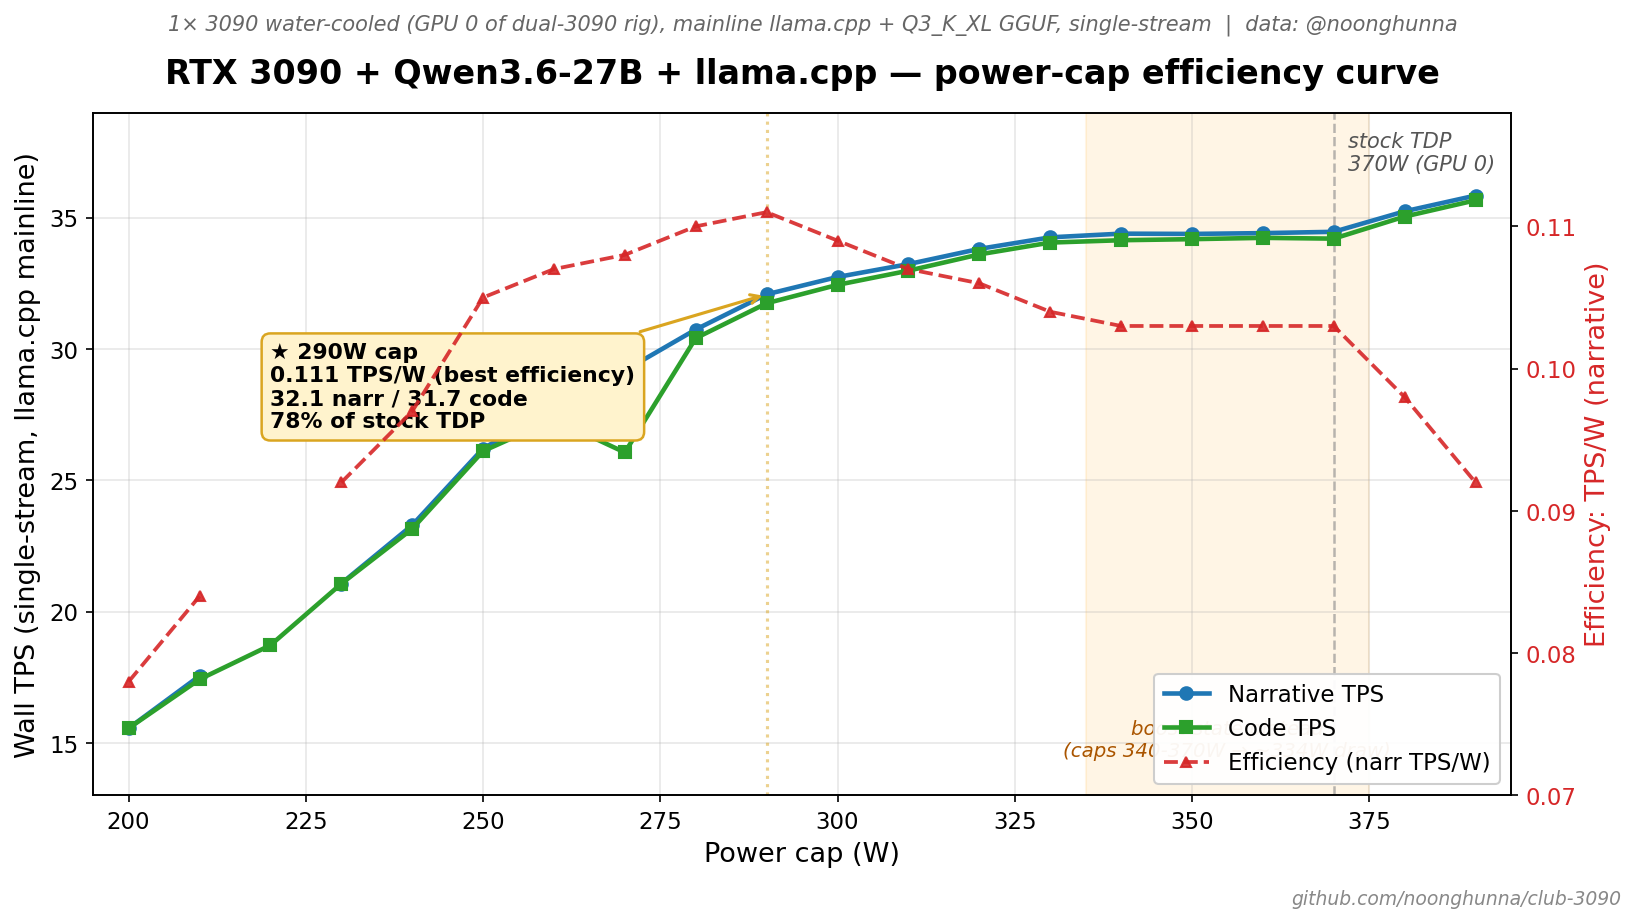
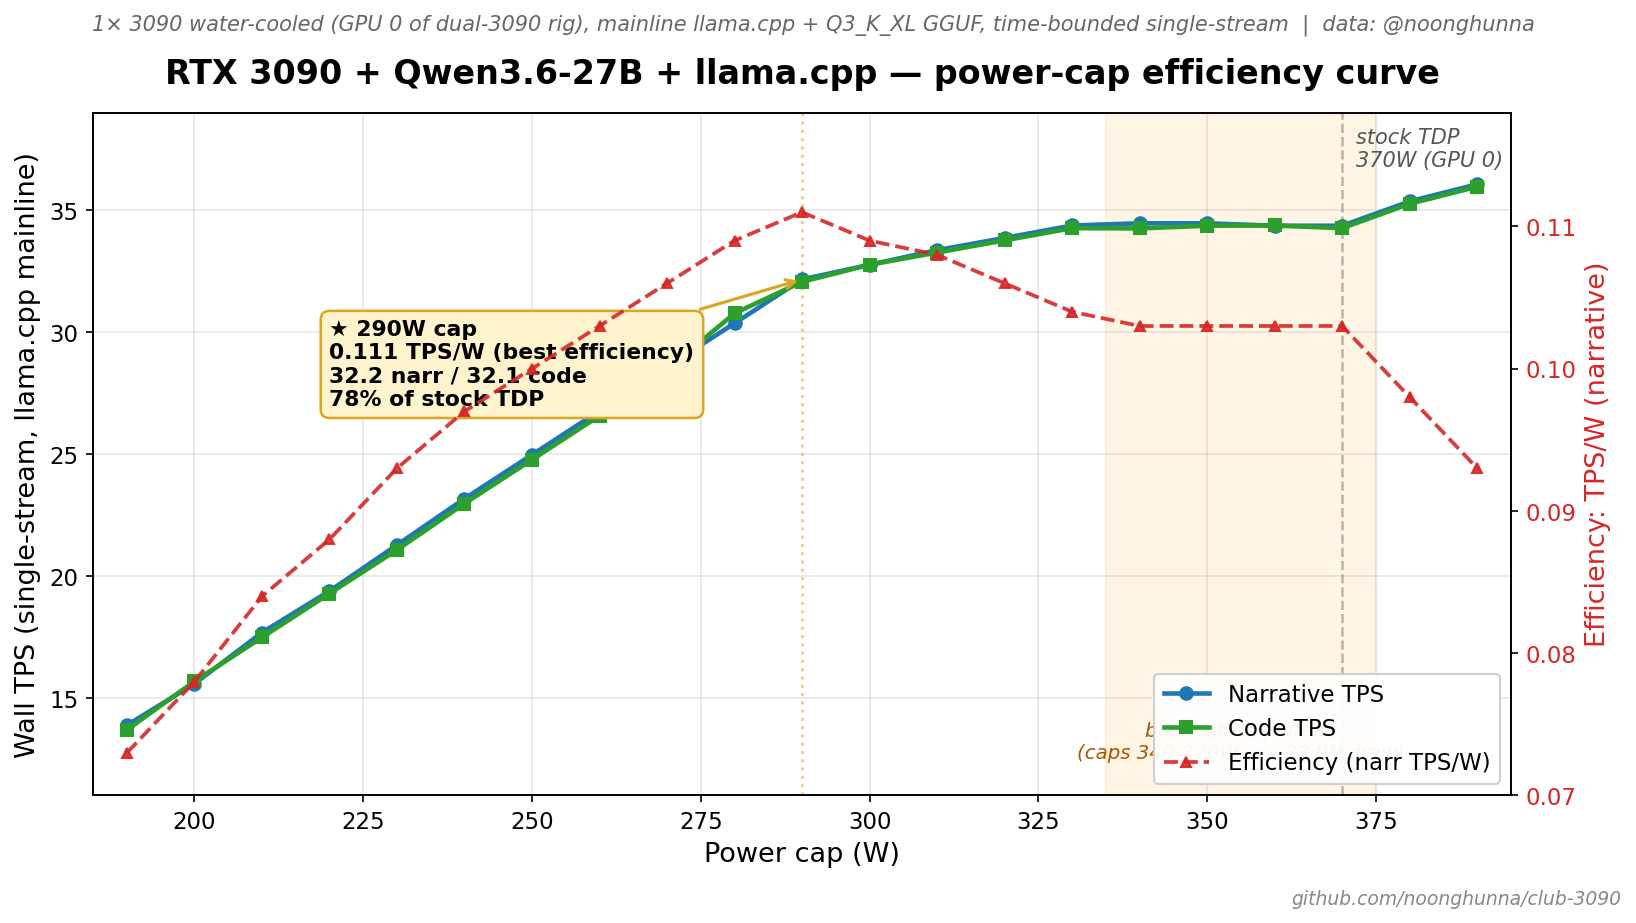
power-cap-sweep: time-bounded streaming bench (Codex Option A redesign)
Replace token-bounded bench.sh per-cap with inline time-bounded streaming
curl. Per-cap wall is now constant ~23s regardless of cap or card class,
fixing the cross-card portability issue where token-counted benches took
2-4× longer at low caps than high caps.

Implementation:
- New flag --target-cap-seconds (default 10): seconds of streaming per
  direction (narrative + code). Total per-cap = 2 × N + ~3s settle.
- Inline curl with stream=true, max_tokens=99999, --max-time=N. Curl exits
  28 when wall budget hits — that's the bench boundary, not an error.
- TPS = streamed token-chunks / wall_seconds, with fallback to
  usage.completion_tokens if engine emits final usage before timeout.
- Per-cap UTC start/end timestamps + wall-time line in output.
- Updated runtime estimate to use TARGET_CAP_SECONDS math for decode-single.

Validated 2026-05-07 on @user's 3090 water-cooled rig:
- 21-cap sweep (190-390W): 8m12s total wall (target was ≤12 min)
- Per-cap wall: 23.4s consistent (target was 15-45s)
- Power sampler: 35-37 util>50% samples per cap = 17-18.5s of data
  (target was ≥10s)
- TPS values reproduce prior data within ~1% (290W: 32.16 narr / 0.111
  TPS/W matches our prior 32.08 / 0.111 measurement)

Cross-card extrapolation (linear in cap count, not throttle):
- 5090 (300-600W, 31 caps): ~12 min
- 4090 (230-600W, 38 caps): ~15 min
- 3090 (190-390W, 21 caps): ~8 min ✓

Removed env-var token overrides for decode-single (BENCH_MAX_TOKENS_*
[…]

diff --git a/docs/img/power-cap-3090-qwen36.py b/docs/img/power-cap-3090-qwen36.py
@@ -1,48 +1,46 @@
 """Generate 3090 power-cap efficiency chart from @noonghunna's water-cooled rig.
 
-Source data: this run, 2026-05-07, dual-3090 rig (GPU 0 used), water-cooled.
+Source data: 2026-05-07 sweep, dual-3090 rig (GPU 0 used), water-cooled.
 Engine: mainline llama.cpp (ghcr.io/ggml-org/llama.cpp:server-cuda) +
 Qwen3.6-27B-UD-Q3_K_XL.gguf, single-stream decode-single.
 
-Sweep stages:
-  200-210W: full bench (1 warm + 2 measured, 500/400 max_tokens) — sweep v2
-  220W:     quick bench (0 warm + 1 measured, 250/200 tokens) — sweep v3
-            narr 10.28 was cold-cache biased (first cap of quick-bench run);
-            code 18.72 retained (cache warmed by narr run that just preceded)
-  230-240W: same quick bench shape; cache warm from previous cap
-  250-390W: quick bench with warmups=1 (1 warm + 1 measured, 250/200) — sweep v4
+Sweep methodology: time-bounded streaming bench (10s/direction at each cap).
+Total wall: 8m12s for 21 caps from 190-390W in 10W increments. The time-bounded
+approach (vs token-bounded) makes per-cap wall constant ~23s regardless of cap,
+so total runtime scales linearly with cap count, not throttle severity.
 """
 import matplotlib.pyplot as plt
 
-# (cap_W, narr_TPS, code_TPS, actual_W, eff_TPS_per_W)
+# (cap_W, narr_TPS, code_TPS, actual_W, eff_TPS_per_W) — full 21-cap clean sweep
 data = [
-    (200, 15.56, 15.56, 199.67, 0.078),
-    (210, 17.55, 17.42, 209.67, 0.084),
-    (220, None, 18.72, 219.64, None),  # narr cold-cache biased; skip
-    (230, 21.07, 21.06, 229.66, 0.092),
-    (240, 23.29, 23.15, 239.7, 0.097),
-    (250, 26.21, 26.11, 249.69, 0.105),
-    (260, 27.75, 27.32, 259.80, 0.107),
-    (270, 29.18, 26.06, 269.91, 0.108),
-    (280, 30.74, 30.41, 279.95, 0.110),
-    (290, 32.08, 31.74, 289.64, 0.111),  # ⭐ sweet spot
-    (300, 32.74, 32.44, 299.61, 0.109),
-    (310, 33.23, 32.98, 309.18, 0.107),
-    (320, 33.81, 33.60, 319.51, 0.106),
-    (330, 34.25, 34.05, 328.89, 0.104),
-    (340, 34.39, 34.14, 334.24, 0.103),  # boost-state plateau begins
-    (350, 34.38, 34.18, 334.08, 0.103),
-    (360, 34.41, 34.23, 334.08, 0.103),
-    (370, 34.46, 34.20, 334.20, 0.103),  # stock TDP, plateau holds
-    (380, 35.24, 35.04, 361.19, 0.098),  # plateau ends, draw jumps to 361
-    (390, 35.84, 35.66, 388.58, 0.092),  # max — 388W draw at 390W cap
+    (190, 13.88, 13.69, 189.73, 0.073),
+    (200, 15.58, 15.68, 199.71, 0.078),
+    (210, 17.68, 17.48, 209.77, 0.084),
+    (220, 19.38, 19.28, 219.73, 0.088),
+    (230, 21.27, 21.07, 229.71, 0.093),
+    (240, 23.17, 22.97, 239.84, 0.097),
+    (250, 24.97, 24.77, 249.80, 0.100),
+    (260, 26.77, 26.57, 259.86, 0.103),
+    (270, 28.57, 28.47, 269.56, 0.106),
+    (280, 30.36, 30.77, 279.75, 0.109),
+    (290, 32.16, 32.06, 289.37, 0.111),  # ⭐ sweet spot
+    (300, 32.76, 32.76, 299.30, 0.109),
+    (310, 33.36, 33.26, 309.59, 0.108),
+    (320, 33.86, 33.76, 319.47, 0.106),
+    (330, 34.37, 34.26, 329.47, 0.104),
+    (340, 34.46, 34.25, 333.70, 0.103),  # boost-state plateau begins
+    (350, 34.46, 34.36, 334.00, 0.103),
+    (360, 34.36, 34.37, 333.97, 0.103),
+    (370, 34.36, 34.26, 334.02, 0.103),  # stock TDP, plateau holds
+    (380, 35.36, 35.26, 361.30, 0.098),  # plateau ends, draw jumps to 361
+    (390, 36.06, 35.96, 388.72, 0.093),  # max — 388W draw at 390W cap
 ]
 
 caps = [d[0] for d in data]
-narr = [d[1] if d[1] is not None else float('nan') for d in data]
+narr = [d[1] for d in data]
 code = [d[2] for d in data]
 draw = [d[3] for d in data]
-eff = [d[4] if d[4] is not None else float('nan') for d in data]
+eff = [d[4] for d in data]
 
 plt.rcParams.update({
     "font.family": "sans-serif",
@@ -65,8 +63,8 @@ ax1.plot(caps, code, "s-", color=color_code, linewidth=2.2, markersize=6,
          label="Code TPS", zorder=3)
 ax1.set_xlabel("Power cap (W)", fontsize=13)
 ax1.set_ylabel("Wall TPS (single-stream, llama.cpp mainline)", fontsize=13)
-ax1.set_xlim(195, 395)
-ax1.set_ylim(13, 39)
+ax1.set_xlim(185, 395)
+ax1.set_ylim(11, 39)
 ax1.grid(True, alpha=0.3, zorder=0)
 ax1.tick_params(axis="both", labelsize=11)
 
@@ -82,8 +80,8 @@ ax2.set_ylim(0.07, 0.118)
 # Sweet spot annotation: 290W
 ax1.axvline(290, color="goldenrod", linestyle=":", alpha=0.5, linewidth=1.5)
 ax1.annotate(
-    "★ 290W cap\n0.111 TPS/W (best efficiency)\n32.1 narr / 31.7 code\n78% of stock TDP",
-    xy=(290, 32.08),
+    "★ 290W cap\n0.111 TPS/W (best efficiency)\n32.2 narr / 32.1 code\n78% of stock TDP",
+    xy=(290, 32.16),
     xytext=(220, 27),
     fontsize=10.5,
     fontweight="bold",
@@ -94,7 +92,7 @@ ax1.annotate(
 
 # Boost-state plateau region (340-370W → all 334W draw)
 ax1.axvspan(335, 375, alpha=0.10, color="orange", zorder=0)
-ax1.text(355, 14.5, "boost-state plateau\n(caps 340-370W → ~334W draw)",
+ax1.text(355, 12.5, "boost-state plateau\n(caps 340-370W → ~334W draw)",
          fontsize=9.5, ha="center", color="#aa5500", fontstyle="italic")
 
 # Stock TDP marker at 370W
@@ -119,7 +117,7 @@ ax1.set_title(
 fig.text(
     0.5, 0.92,
     "1× 3090 water-cooled (GPU 0 of dual-3090 rig), mainline llama.cpp + Q3_K_XL GGUF, "
-    "single-stream  |  data: @noonghunna",
+    "time-bounded single-stream  |  data: @noonghunna",
     ha="center", fontsize=10, color="#666",
     style="italic",
 )

diff --git a/docs/HARDWARE.md b/docs/HARDWARE.md
@@ -87,18 +87,26 @@ Run `sudo bash scripts/power-cap-sweep.sh --cooling air|water|aio` on a new rig 
 ```bash
 sudo bash scripts/power-cap-sweep.sh \
   --cooling air|water|aio \
+  --load-mode decode-single
+```
+
+For larger cards where single-stream doesn't saturate compute (5090, RTX PRO 6000), use `decode-concurrent`:
+
+```bash
+sudo bash scripts/power-cap-sweep.sh \
+  --cooling air|water|aio \
   --load-mode decode-concurrent \
   --concurrency auto \
   --bench-runs 3
 ```
 
-Three flags matter for anchor data:
-- **`--bench-runs 3`** — medians three batches per cap. Without this, single-batch variance can be 10-30%, making adjacent-cap deltas noise rather than signal.
-- **`--concurrency auto`** — picks N via plateau-detection at the highest cap (selects the highest N where both TPS and draw improve >3% over previous N). Avoids both under-loading (smaller GPUs at default N=4 plateau early) and over-loading (concurrency contention drops TPS).
-- **`--load-mode decode-concurrent`** — surfaces the curve on cards that don't saturate at single-stream decode (5090, larger Ada/Blackwell). 3090s often work fine at default `decode-single`, but `decode-concurrent` is safer cross-class.
+How `decode-single` is timed (the new default since 2026-05-07):
+- **Time-bounded streaming bench**: 10s narrative + 10s code per cap (configurable via `--target-cap-seconds`). Per-cap wall is constant ~23s regardless of cap or card class.
+- **Cross-card portable**: a 3090 sweep (190-390W, 21 caps) takes ~8 min; a 5090 sweep (300-600W, 31 caps) ~12 min; a 4090 sweep (230-600W, 38 caps) ~15 min — runtime scales linearly with cap count, not throttle severity.
+- **Power sampler stability**: the 23s/cap window provides 35-37 sampler readings (0.5s interval) where util>50%, well above the 10s minimum needed for stable median.
 
 **Default step-size is 10W.** Don't override unless you know why:
-- `--step-size 10` (default) → ~30 caps × ~30 sec/cap = ~15-20 min total. The right resolution for finding the actual knee.
+- `--step-size 10` (default) → 21-38 caps depending on card class. The right resolution for finding the actual knee.
 - `--step-size 50` → ~5-6 caps total. Quick smoke / single-rig sanity only — too coarse to pin down the efficiency knee for a cross-rig anchor.
 
 | GPU | Cooling | Engine | Model | Cap | Narr TPS | Code TPS | TPS/W | Source |
@@ -135,7 +143,7 @@ For rigs where we have full 10W-resolution sweeps, the curves below show TPS + T
 
 ![3090 + Qwen3.6-27B + llama.cpp power-cap efficiency curve (noonghunna)](img/power-cap-3090-qwen36.png)
 
-*3090 water-cooled + Qwen3.6-27B Q3_K_XL + mainline llama.cpp, 18-cap sweep 200-390W (mixed bench shapes). Yellow callout: 290W sweet spot (0.111 TPS/W) at **78% of stock 370W TDP**. Orange-shaded zone 340-370W: firmware boost-state plateau where caps 340/350/360/370W all draw identical ~334W actual. At 380W cap, draw escapes to 361W; at 390W cap, draw reaches 388W — so the apparent "ceiling" at 334W isn't a hardware limit, it's a discrete boost-state behavior. Source script: [`img/power-cap-3090-qwen36.py`](img/power-cap-3090-qwen36.py).*
+*3090 water-cooled + Qwen3.6-27B Q3_K_XL + mainline llama.cpp, 21-cap sweep 190-390W via time-bounded streaming bench (10s/direction). **Total wall: 8m12s.** Yellow callout: 290W sweet spot (0.111 TPS/W) at **78% of stock 370W TDP**. Orange-shaded zone 340-370W: firmware boost-state plateau where caps 340/350/360/370W all draw identical ~334W actual. At 380W cap, draw escapes to 361W; at 390W cap, draw reaches 388W — so the apparent "ceiling" at 334W isn't a hardware limit, it's a discrete boost-state behavior. Source script: [`img/power-cap-3090-qwen36.py`](img/power-cap-3090-qwen36.py).*
 
 **Cross-rig pattern**: efficiency knee falls at **~60-85% of stock TDP** across consumer Ampere/Ada — start there for a new card class and zoom in. Ada (4090) is proportionally more aggressive than Ampere (3090) — 4090 cuts 33% of stock TDP for ~7% TPS loss; 3090 cuts 15% of stock for ~5% loss.
 